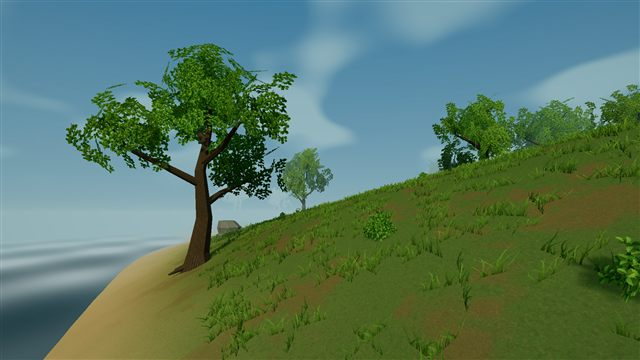
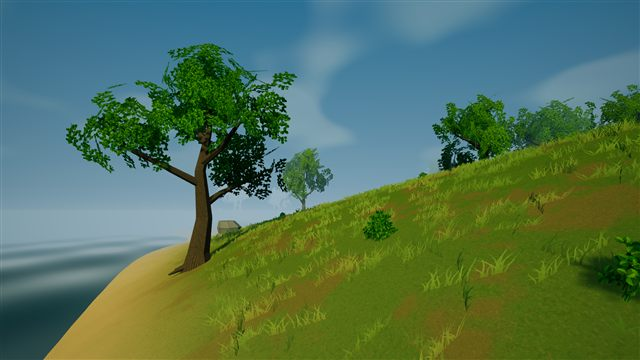
Publish rendering study 05 with HDR and SMAA comparisons

diff --git a/index.html b/index.html
@@ -1,16 +1,16 @@
 <!doctype html>
-<html lang="en"><head><meta charset="utf-8"><meta name="viewport" content="width=device-width, initial-scale=1"><meta name="theme-color" content="#101a15"><meta name="description" content="Ten in-engine forest, coast, and shelter screenshots from the Survival prototype."><title>Survival - Environment Gallery</title><link rel="stylesheet" href="style.css?v=4"></head>
-<body><header class="wrap masthead"><a class="brand" href="index.html">SURVIVAL <span>DEVELOPMENT GALLERY</span></a><span class="edition">ENVIRONMENT STUDY 04</span></header>
-<main class="wrap"><section class="intro"><p class="eyebrow">FOREST / COAST / SHELTER</p><h1>A world in different light.</h1><p class="lead">Ten fresh in-engine views with clearer sunlight and shade, restrained foliage backlighting, and less foreground mist. The same procedural assets show the lighting changes.</p><p class="hint">Choose a view. Tap its image for the full-resolution screenshot. The canopy and shelter pages include views from before the lighting pass. Contact occlusion is off in these default views.</p></section>
-<section class="gallery" aria-label="Environment screenshots"><a class="card" href="clearing.html"><img src="images/clearing-thumb.jpg?v=4" width="640" height="360" alt="The ordinary player camera with branching tree families, finer grass, and irregular rocks." fetchpriority="high"><div class="card-body"><span class="number">DAY / PLAYABLE VIEW</span><h2>Through the clearing</h2><p>The ordinary player camera with branching tree families, finer grass, and irregular rocks.</p><span class="open">Open view <span aria-hidden="true">&#8599;</span></span></div></a>
-<a class="card" href="canopy.html"><img src="images/canopy-thumb.jpg?v=4" width="640" height="360" alt="Rebalanced sunlight, cool shade, and cached canopy skylight on the ground. Earlier captures below show the progression." loading="lazy"><div class="card-body"><span class="number">DAY / CANOPY COMPARISON</span><h2>Under the branches</h2><p>Rebalanced sunlight, cool shade, and cached canopy skylight on the ground. Earlier captures below show the progression.</p><span class="open">Open view <span aria-hidden="true">&#8599;</span></span></div></a>
-<a class="card" href="grass.html"><img src="images/grass-thumb.jpg?v=4" width="640" height="360" alt="Shorter fine grass with occasional taller accents, sparse flowers, and coherent ground patches." loading="lazy"><div class="card-body"><span class="number">DAY / GROUND DETAIL</span><h2>At meadow height</h2><p>Shorter fine grass with occasional taller accents, sparse flowers, and coherent ground patches.</p><span class="open">Open view <span aria-hidden="true">&#8599;</span></span></div></a>
-<a class="card" href="coast.html"><img src="images/coast-thumb.jpg?v=4" width="640" height="360" alt="The shoreline and a simple ripple-lighting water study. Water remains visual only." loading="lazy"><div class="card-body"><span class="number">DAY / COAST</span><h2>Where the meadow meets water</h2><p>The shoreline and a simple ripple-lighting water study. Water remains visual only.</p><span class="open">Open view <span aria-hidden="true">&#8599;</span></span></div></a>
-<a class="card" href="ridge.html"><img src="images/ridge-thumb.jpg?v=4" width="640" height="360" alt="A wide coastal panorama with mixed tree silhouettes and distant mist." loading="lazy"><div class="card-body"><span class="number">DAY / LANDSCAPE</span><h2>Across the forest edge</h2><p>A wide coastal panorama with mixed tree silhouettes and distant mist.</p><span class="open">Open view <span aria-hidden="true">&#8599;</span></span></div></a>
-<a class="card" href="dawn.html"><img src="images/dawn-thumb.jpg?v=4" width="640" height="360" alt="A curated dawn preset: low warm sunlight, cooler ambient light, and heavier mist." loading="lazy"><div class="card-body"><span class="number">DAWN / LIGHTING STUDY</span><h2>Cool morning mist</h2><p>A curated dawn preset: low warm sunlight, cooler ambient light, and heavier mist.</p><span class="open">Open view <span aria-hidden="true">&#8599;</span></span></div></a>
-<a class="card" href="golden.html"><img src="images/golden-thumb.jpg?v=4" width="640" height="360" alt="A warm low-sun preset for checking foliage volume and long shadows." loading="lazy"><div class="card-body"><span class="number">GOLDEN HOUR / LIGHTING STUDY</span><h2>Late light in the meadow</h2><p>A warm low-sun preset for checking foliage volume and long shadows.</p><span class="open">Open view <span aria-hidden="true">&#8599;</span></span></div></a>
-<a class="card" href="overcast.html"><img src="images/overcast-thumb.jpg?v=4" width="640" height="360" alt="A softer cool-light preset that exposes silhouettes and ground detail without strong sunlight." loading="lazy"><div class="card-body"><span class="number">OVERCAST / LIGHTING STUDY</span><h2>A quieter forest path</h2><p>A softer cool-light preset that exposes silhouettes and ground detail without strong sunlight.</p><span class="open">Open view <span aria-hidden="true">&#8599;</span></span></div></a>
-<a class="card" href="shelter.html"><img src="images/shelter-thumb.jpg?v=4" width="640" height="360" alt="A staged fixture built from the existing foundation, floor, wall, doorway, and flat-roof pieces." loading="lazy"><div class="card-body"><span class="number">DAY / CONSTRUCTION STUDY</span><h2>A shelter in the clearing</h2><p>A staged fixture built from the existing foundation, floor, wall, doorway, and flat-roof pieces.</p><span class="open">Open view <span aria-hidden="true">&#8599;</span></span></div></a>
-<a class="card" href="dusk.html"><img src="images/dusk-thumb.jpg?v=4" width="640" height="360" alt="The same prototype pieces at dusk with a capture-only ember and point-light fixture. Campfire gameplay is not implemented." loading="lazy"><div class="card-body"><span class="number">DUSK / LOCAL LIGHT STUDY</span><h2>Warmth beside the shelter</h2><p>The same prototype pieces at dusk with a capture-only ember and point-light fixture. Campfire gameplay is not implemented.</p><span class="open">Open view <span aria-hidden="true">&#8599;</span></span></div></a></section>
+<html lang="en"><head><meta charset="utf-8"><meta name="viewport" content="width=device-width, initial-scale=1"><meta name="theme-color" content="#101a15"><meta name="description" content="Ten in-engine forest, coast, and shelter screenshots from the Survival prototype."><title>Survival - Environment Gallery</title><link rel="stylesheet" href="style.css?v=5"></head>
+<body><header class="wrap masthead"><a class="brand" href="index.html">SURVIVAL <span>DEVELOPMENT GALLERY</span></a><span class="edition">ENVIRONMENT STUDY 05</span></header>
+<main class="wrap"><section class="intro"><p class="eyebrow">FOREST / COAST / SHELTER</p><h1>A world in different light.</h1><p class="lead">Ten in-engine views with spatial anti-aliasing, HDR lighting and preset colour grading, deeper foliage colours, ground-blended grass roots, and a directional sky horizon.</p><p class="hint">Choose a view. Tap its image for the full-resolution screenshot. The canopy and shelter pages retain earlier rendering studies for comparison. Contact occlusion is off in these default views.</p></section>
+<section class="gallery" aria-label="Environment screenshots"><a class="card" href="clearing.html"><img src="images/clearing-thumb.jpg?v=5" width="640" height="360" alt="The ordinary player camera with branching tree families, finer grass, and irregular rocks." fetchpriority="high"><div class="card-body"><span class="number">DAY / PLAYABLE VIEW</span><h2>Through the clearing</h2><p>The ordinary player camera with branching tree families, finer grass, and irregular rocks.</p><span class="open">Open view <span aria-hidden="true">&#8599;</span></span></div></a>
+<a class="card" href="canopy.html"><img src="images/canopy-thumb.jpg?v=5" width="640" height="360" alt="Deeper foliage, warmer backlighting, spatial anti-aliasing, and a shared directional sky/fog horizon. Earlier studies below show the progression." loading="lazy"><div class="card-body"><span class="number">DAY / CANOPY COMPARISON</span><h2>Under the branches</h2><p>Deeper foliage, warmer backlighting, spatial anti-aliasing, and a shared directional sky/fog horizon. Earlier studies below show the progression.</p><span class="open">Open view <span aria-hidden="true">&#8599;</span></span></div></a>
+<a class="card" href="grass.html"><img src="images/grass-thumb.jpg?v=5" width="640" height="360" alt="Shorter fine grass with occasional taller accents, sparse flowers, and coherent ground patches." loading="lazy"><div class="card-body"><span class="number">DAY / GROUND DETAIL</span><h2>At meadow height</h2><p>Shorter fine grass with occasional taller accents, sparse flowers, and coherent ground patches.</p><span class="open">Open view <span aria-hidden="true">&#8599;</span></span></div></a>
+<a class="card" href="coast.html"><img src="images/coast-thumb.jpg?v=5" width="640" height="360" alt="The shoreline and a simple ripple-lighting water study. Water remains visual only." loading="lazy"><div class="card-body"><span class="number">DAY / COAST</span><h2>Where the meadow meets water</h2><p>The shoreline and a simple ripple-lighting water study. Water remains visual only.</p><span class="open">Open view <span aria-hidden="true">&#8599;</span></span></div></a>
+<a class="card" href="ridge.html"><img src="images/ridge-thumb.jpg?v=5" width="640" height="360" alt="A wide coastal panorama with mixed tree silhouettes and distant mist." loading="lazy"><div class="card-body"><span class="number">DAY / LANDSCAPE</span><h2>Across the forest edge</h2><p>A wide coastal panorama with mixed tree silhouettes and distant mist.</p><span class="open">Open view <span aria-hidden="true">&#8599;</span></span></div></a>
+<a class="card" href="dawn.html"><img src="images/dawn-thumb.jpg?v=5" width="640" height="360" alt="A curated dawn preset: low warm sunlight, cooler ambient light, and heavier mist." loading="lazy"><div class="card-body"><span class="number">DAWN / LIGHTING STUDY</span><h2>Cool morning mist</h2><p>A curated dawn preset: low warm sunlight, cooler ambient light, and heavier mist.</p><span class="open">Open view <span aria-hidden="true">&#8599;</span></span></div></a>
+<a class="card" href="golden.html"><img src="images/golden-thumb.jpg?v=5" width="640" height="360" alt="A warm low-sun preset for checking foliage volume and long shadows." loading="lazy"><div class="card-body"><span class="number">GOLDEN HOUR / LIGHTING STUDY</span><h2>Late light in the meadow</h2><p>A warm low-sun preset for checking foliage volume and long shadows.</p><span class="open">Open view <span aria-hidden="true">&#8599;</span></span></div></a>
+<a class="card" href="overcast.html"><img src="images/overcast-thumb.jpg?v=5" width="640" height="360" alt="A softer cool-light preset that exposes silhouettes and ground detail without strong sunlight." loading="lazy"><div class="card-body"><span class="number">OVERCAST / LIGHTING STUDY</span><h2>A quieter forest path</h2><p>A softer cool-light preset that exposes silhouettes and ground detail without strong sunlight.</p><span class="open">Open view <span aria-hidden="true">&#8599;</span></span></div></a>
+<a class="card" href="shelter.html"><img src="images/shelter-thumb.jpg?v=5" width="640" height="360" alt="A staged fixture built from the existing foundation, floor, wall, doorway, and flat-roof pieces." loading="lazy"><div class="card-body"><span class="number">DAY / CONSTRUCTION STUDY</span><h2>A shelter in the clearing</h2><p>A staged fixture built from the existing foundation, floor, wall, doorway, and flat-roof pieces.</p><span class="open">Open view <span aria-hidden="true">&#8599;</span></span></div></a>
+<a class="card" href="dusk.html"><img src="images/dusk-thumb.jpg?v=5" width="640" height="360" alt="The same prototype pieces at dusk with a capture-only ember and point-light fixture. Campfire gameplay is not implemented." loading="lazy"><div class="card-body"><span class="number">DUSK / LOCAL LIGHT STUDY</span><h2>Warmth beside the shelter</h2><p>The same prototype pieces at dusk with a capture-only ember and point-light fixture. Campfire gameplay is not implemented.</p><span class="open">Open view <span aria-hidden="true">&#8599;</span></span></div></a></section>
 <aside class="note"><strong>A work in progress.</strong> Original procedural assets, rendered in the game. Dawn, golden-hour, overcast, and dusk images use curated art presets; they do not demonstrate a day/night or weather cycle. Shelter scenes are staged from existing build pieces, and the dusk fire is a lighting fixture. This is a screenshot gallery, not a playable mobile game.</aside></main>
-<footer class="wrap footer">SURVIVAL <span>Environment study 04 - ten views</span></footer></body></html>
+<footer class="wrap footer">SURVIVAL <span>Environment study 05 - ten views</span></footer></body></html>

diff --git a/canopy.html b/canopy.html
@@ -1,7 +1,7 @@
 <!doctype html>
-<html lang="en"><head><meta charset="utf-8"><meta name="viewport" content="width=device-width, initial-scale=1"><meta name="theme-color" content="#101a15"><title>Under the branches - Survival Gallery</title><link rel="stylesheet" href="style.css?v=4"></head>
-<body><header class="wrap masthead"><a class="brand" href="index.html">SURVIVAL <span>DEVELOPMENT GALLERY</span></a><span class="edition">ENVIRONMENT STUDY 04</span></header>
-<main class="wrap"><section class="view-header"><a class="back" href="index.html">&#8592; All views</a><p class="eyebrow">DAY / CANOPY COMPARISON</p><h1>Under the branches</h1><p>Rebalanced sunlight, cool shade, and cached canopy skylight on the ground. Earlier captures below show the progression.</p></section>
-<figure class="image-frame"><a href="images/canopy-full.png?v=4"><img src="images/canopy.jpg?v=4" width="1280" height="720" alt="Rebalanced sunlight, cool shade, and cached canopy skylight on the ground. Earlier captures below show the progression." fetchpriority="high"></a><figcaption>Captured in Unity at 1920 &#215; 1080. Tap the image for the original PNG. Lighting variants are curated art presets, not a running day/night or weather system.</figcaption></figure><section class="view-header"><h2>Before the lighting pass</h2><p>Study 03: the same camera and procedural assets before the sunlight, ambient shading, and fog changes. Wind can differ between captures.</p></section><figure class="image-frame"><a href="images/study03-canopy-full.png"><img src="images/study03-canopy.jpg" width="1280" height="720" alt="Study 03 before the lighting pass" loading="lazy"></a><figcaption>Study 03. Tap for the original screenshot.</figcaption></figure><section class="view-header"><h2>Forest study 02</h2><p>The same camera before the branch-led tree, rock, and ground-cover changes.</p></section><figure class="image-frame"><a href="images/study02-canopy-full.png"><img src="images/study02-canopy.jpg" width="1280" height="720" alt="Study 02 canopy capture before the branch-led tree family changes" loading="lazy"></a><figcaption>Study 02. Tap for the original screenshot.</figcaption></figure><section class="view-header"><h2>Original procedural study</h2><p>An earlier build using the same camera position, not another current lighting preset.</p></section><figure class="image-frame"><a href="images/before-canopy-full.png"><img src="images/before-canopy.jpg" width="1280" height="720" alt="Earlier canopy study with repeated branch shapes and larger leaf patterns" loading="lazy"></a><figcaption>Original study. Tap for the original screenshot.</figcaption></figure>
+<html lang="en"><head><meta charset="utf-8"><meta name="viewport" content="width=device-width, initial-scale=1"><meta name="theme-color" content="#101a15"><title>Under the branches - Survival Gallery</title><link rel="stylesheet" href="style.css?v=5"></head>
+<body><header class="wrap masthead"><a class="brand" href="index.html">SURVIVAL <span>DEVELOPMENT GALLERY</span></a><span class="edition">ENVIRONMENT STUDY 05</span></header>
+<main class="wrap"><section class="view-header"><a class="back" href="index.html">&#8592; All views</a><p class="eyebrow">DAY / CANOPY COMPARISON</p><h1>Under the branches</h1><p>Deeper foliage, warmer backlighting, spatial anti-aliasing, and a shared directional sky/fog horizon. Earlier studies below show the progression.</p></section>
+<figure class="image-frame"><a href="images/canopy-full.png?v=5"><img src="images/canopy.jpg?v=5" width="1280" height="720" alt="Deeper foliage, warmer backlighting, spatial anti-aliasing, and a shared directional sky/fog horizon. Earlier studies below show the progression." fetchpriority="high"></a><figcaption>Captured in Unity at 1920 &#215; 1080. Tap the image for the original PNG. Lighting variants are curated art presets, not a running day/night or weather system.</figcaption></figure><section class="view-header"><h2>Before this rendering pass</h2><p>Study 04: the same camera before SMAA, HDR capture and grading, foliage colours, grass-root blending, and directional horizon tint. Wind can differ between captures.</p></section><figure class="image-frame"><a href="images/study04-canopy-full.png"><img src="images/study04-canopy.jpg" width="1280" height="720" alt="Study 04 before the rendering recommendations pass" loading="lazy"></a><figcaption>Study 04. Tap for the original screenshot.</figcaption></figure><section class="view-header"><h2>Before the lighting pass</h2><p>Study 03: the same camera and procedural assets before the sunlight, ambient shading, and fog changes. Wind can differ between captures.</p></section><figure class="image-frame"><a href="images/study03-canopy-full.png"><img src="images/study03-canopy.jpg" width="1280" height="720" alt="Study 03 before the lighting pass" loading="lazy"></a><figcaption>Study 03. Tap for the original screenshot.</figcaption></figure><section class="view-header"><h2>Forest study 02</h2><p>The same camera before the branch-led tree, rock, and ground-cover changes.</p></section><figure class="image-frame"><a href="images/study02-canopy-full.png"><img src="images/study02-canopy.jpg" width="1280" height="720" alt="Study 02 canopy capture before the branch-led tree family changes" loading="lazy"></a><figcaption>Study 02. Tap for the original screenshot.</figcaption></figure><section class="view-header"><h2>Original procedural study</h2><p>An earlier build using the same camera position, not another current lighting preset.</p></section><figure class="image-frame"><a href="images/before-canopy-full.png"><img src="images/before-canopy.jpg" width="1280" height="720" alt="Earlier canopy study with repeated branch shapes and larger leaf patterns" loading="lazy"></a><figcaption>Original study. Tap for the original screenshot.</figcaption></figure>
 <nav class="view-nav" aria-label="Screenshot navigation"><a href="clearing.html">&#8592; Through the clearing</a><a class="next" href="grass.html">At meadow height &#8594;</a></nav></main>
 <footer class="wrap footer">SURVIVAL <span>In-engine development captures</span></footer></body></html>

diff --git a/shelter.html b/shelter.html
@@ -1,7 +1,7 @@
 <!doctype html>
-<html lang="en"><head><meta charset="utf-8"><meta name="viewport" content="width=device-width, initial-scale=1"><meta name="theme-color" content="#101a15"><title>A shelter in the clearing - Survival Gallery</title><link rel="stylesheet" href="style.css?v=4"></head>
-<body><header class="wrap masthead"><a class="brand" href="index.html">SURVIVAL <span>DEVELOPMENT GALLERY</span></a><span class="edition">ENVIRONMENT STUDY 04</span></header>
+<html lang="en"><head><meta charset="utf-8"><meta name="viewport" content="width=device-width, initial-scale=1"><meta name="theme-color" content="#101a15"><title>A shelter in the clearing - Survival Gallery</title><link rel="stylesheet" href="style.css?v=5"></head>
+<body><header class="wrap masthead"><a class="brand" href="index.html">SURVIVAL <span>DEVELOPMENT GALLERY</span></a><span class="edition">ENVIRONMENT STUDY 05</span></header>
 <main class="wrap"><section class="view-header"><a class="back" href="index.html">&#8592; All views</a><p class="eyebrow">DAY / CONSTRUCTION STUDY</p><h1>A shelter in the clearing</h1><p>A staged fixture built from the existing foundation, floor, wall, doorway, and flat-roof pieces.</p></section>
-<figure class="image-frame"><a href="images/shelter-full.png?v=4"><img src="images/shelter.jpg?v=4" width="1280" height="720" alt="A staged fixture built from the existing foundation, floor, wall, doorway, and flat-roof pieces." fetchpriority="high"></a><figcaption>Captured in Unity at 1920 &#215; 1080. Tap the image for the original PNG. Lighting variants are curated art presets, not a running day/night or weather system.</figcaption></figure><section class="view-header"><h2>Before the lighting pass</h2><p>Study 03: the same camera and procedural assets before the sunlight, ambient shading, and fog changes. Wind can differ between captures.</p></section><figure class="image-frame"><a href="images/study03-shelter-full.png"><img src="images/study03-shelter.jpg" width="1280" height="720" alt="Study 03 before the lighting pass" loading="lazy"></a><figcaption>Study 03. Tap for the original screenshot.</figcaption></figure>
+<figure class="image-frame"><a href="images/shelter-full.png?v=5"><img src="images/shelter.jpg?v=5" width="1280" height="720" alt="A staged fixture built from the existing foundation, floor, wall, doorway, and flat-roof pieces." fetchpriority="high"></a><figcaption>Captured in Unity at 1920 &#215; 1080. Tap the image for the original PNG. Lighting variants are curated art presets, not a running day/night or weather system.</figcaption></figure><section class="view-header"><h2>Before this rendering pass</h2><p>Study 04: the same camera before SMAA, HDR capture and grading, foliage colours, grass-root blending, and directional horizon tint. Wind can differ between captures.</p></section><figure class="image-frame"><a href="images/study04-shelter-full.png"><img src="images/study04-shelter.jpg" width="1280" height="720" alt="Study 04 before the rendering recommendations pass" loading="lazy"></a><figcaption>Study 04. Tap for the original screenshot.</figcaption></figure><section class="view-header"><h2>Before the lighting pass</h2><p>Study 03: the same camera and procedural assets before the sunlight, ambient shading, and fog changes. Wind can differ between captures.</p></section><figure class="image-frame"><a href="images/study03-shelter-full.png"><img src="images/study03-shelter.jpg" width="1280" height="720" alt="Study 03 before the lighting pass" loading="lazy"></a><figcaption>Study 03. Tap for the original screenshot.</figcaption></figure>
 <nav class="view-nav" aria-label="Screenshot navigation"><a href="overcast.html">&#8592; A quieter forest path</a><a class="next" href="dusk.html">Warmth beside the shelter &#8594;</a></nav></main>
 <footer class="wrap footer">SURVIVAL <span>In-engine development captures</span></footer></body></html>

diff --git a/dusk.html b/dusk.html
@@ -1,7 +1,7 @@
 <!doctype html>
-<html lang="en"><head><meta charset="utf-8"><meta name="viewport" content="width=device-width, initial-scale=1"><meta name="theme-color" content="#101a15"><title>Warmth beside the shelter - Survival Gallery</title><link rel="stylesheet" href="style.css?v=4"></head>
-<body><header class="wrap masthead"><a class="brand" href="index.html">SURVIVAL <span>DEVELOPMENT GALLERY</span></a><span class="edition">ENVIRONMENT STUDY 04</span></header>
+<html lang="en"><head><meta charset="utf-8"><meta name="viewport" content="width=device-width, initial-scale=1"><meta name="theme-color" content="#101a15"><title>Warmth beside the shelter - Survival Gallery</title><link rel="stylesheet" href="style.css?v=5"></head>
+<body><header class="wrap masthead"><a class="brand" href="index.html">SURVIVAL <span>DEVELOPMENT GALLERY</span></a><span class="edition">ENVIRONMENT STUDY 05</span></header>
 <main class="wrap"><section class="view-header"><a class="back" href="index.html">&#8592; All views</a><p class="eyebrow">DUSK / LOCAL LIGHT STUDY</p><h1>Warmth beside the shelter</h1><p>The same prototype pieces at dusk with a capture-only ember and point-light fixture. Campfire gameplay is not implemented.</p></section>
-<figure class="image-frame"><a href="images/dusk-full.png?v=4"><img src="images/dusk.jpg?v=4" width="1280" height="720" alt="The same prototype pieces at dusk with a capture-only ember and point-light fixture. Campfire gameplay is not implemented." fetchpriority="high"></a><figcaption>Captured in Unity at 1920 &#215; 1080. Tap the image for the original PNG. Lighting variants are curated art presets, not a running day/night or weather system.</figcaption></figure>
+<figure class="image-frame"><a href="images/dusk-full.png?v=5"><img src="images/dusk.jpg?v=5" width="1280" height="720" alt="The same prototype pieces at dusk with a capture-only ember and point-light fixture. Campfire gameplay is not implemented." fetchpriority="high"></a><figcaption>Captured in Unity at 1920 &#215; 1080. Tap the image for the original PNG. Lighting variants are curated art presets, not a running day/night or weather system.</figcaption></figure>
 <nav class="view-nav" aria-label="Screenshot navigation"><a href="shelter.html">&#8592; A shelter in the clearing</a><a class="next" href="clearing.html">Through the clearing &#8594;</a></nav></main>
 <footer class="wrap footer">SURVIVAL <span>In-engine development captures</span></footer></body></html>

diff --git a/overcast.html b/overcast.html
@@ -1,7 +1,7 @@
 <!doctype html>
-<html lang="en"><head><meta charset="utf-8"><meta name="viewport" content="width=device-width, initial-scale=1"><meta name="theme-color" content="#101a15"><title>A quieter forest path - Survival Gallery</title><link rel="stylesheet" href="style.css?v=4"></head>
-<body><header class="wrap masthead"><a class="brand" href="index.html">SURVIVAL <span>DEVELOPMENT GALLERY</span></a><span class="edition">ENVIRONMENT STUDY 04</span></header>
+<html lang="en"><head><meta charset="utf-8"><meta name="viewport" content="width=device-width, initial-scale=1"><meta name="theme-color" content="#101a15"><title>A quieter forest path - Survival Gallery</title><link rel="stylesheet" href="style.css?v=5"></head>
+<body><header class="wrap masthead"><a class="brand" href="index.html">SURVIVAL <span>DEVELOPMENT GALLERY</span></a><span class="edition">ENVIRONMENT STUDY 05</span></header>
 <main class="wrap"><section class="view-header"><a class="back" href="index.html">&#8592; All views</a><p class="eyebrow">OVERCAST / LIGHTING STUDY</p><h1>A quieter forest path</h1><p>A softer cool-light preset that exposes silhouettes and ground detail without strong sunlight.</p></section>
-<figure class="image-frame"><a href="images/overcast-full.png?v=4"><img src="images/overcast.jpg?v=4" width="1280" height="720" alt="A softer cool-light preset that exposes silhouettes and ground detail without strong sunlight." fetchpriority="high"></a><figcaption>Captured in Unity at 1920 &#215; 1080. Tap the image for the original PNG. Lighting variants are curated art presets, not a running day/night or weather system.</figcaption></figure>
+<figure class="image-frame"><a href="images/overcast-full.png?v=5"><img src="images/overcast.jpg?v=5" width="1280" height="720" alt="A softer cool-light preset that exposes silhouettes and ground detail without strong sunlight." fetchpriority="high"></a><figcaption>Captured in Unity at 1920 &#215; 1080. Tap the image for the original PNG. Lighting variants are curated art presets, not a running day/night or weather system.</figcaption></figure>
 <nav class="view-nav" aria-label="Screenshot navigation"><a href="golden.html">&#8592; Late light in the meadow</a><a class="next" href="shelter.html">A shelter in the clearing &#8594;</a></nav></main>
 <footer class="wrap footer">SURVIVAL <span>In-engine development captures</span></footer></body></html>

diff --git a/clearing.html b/clearing.html
@@ -1,7 +1,7 @@
 <!doctype html>
-<html lang="en"><head><meta charset="utf-8"><meta name="viewport" content="width=device-width, initial-scale=1"><meta name="theme-color" content="#101a15"><title>Through the clearing - Survival Gallery</title><link rel="stylesheet" href="style.css?v=4"></head>
-<body><header class="wrap masthead"><a class="brand" href="index.html">SURVIVAL <span>DEVELOPMENT GALLERY</span></a><span class="edition">ENVIRONMENT STUDY 04</span></header>
+<html lang="en"><head><meta charset="utf-8"><meta name="viewport" content="width=device-width, initial-scale=1"><meta name="theme-color" content="#101a15"><title>Through the clearing - Survival Gallery</title><link rel="stylesheet" href="style.css?v=5"></head>
+<body><header class="wrap masthead"><a class="brand" href="index.html">SURVIVAL <span>DEVELOPMENT GALLERY</span></a><span class="edition">ENVIRONMENT STUDY 05</span></header>
 <main class="wrap"><section class="view-header"><a class="back" href="index.html">&#8592; All views</a><p class="eyebrow">DAY / PLAYABLE VIEW</p><h1>Through the clearing</h1><p>The ordinary player camera with branching tree families, finer grass, and irregular rocks.</p></section>
-<figure class="image-frame"><a href="images/clearing-full.png?v=4"><img src="images/clearing.jpg?v=4" width="1280" height="720" alt="The ordinary player camera with branching tree families, finer grass, and irregular rocks." fetchpriority="high"></a><figcaption>Captured in Unity at 1920 &#215; 1080. Tap the image for the original PNG. Lighting variants are curated art presets, not a running day/night or weather system.</figcaption></figure>
+<figure class="image-frame"><a href="images/clearing-full.png?v=5"><img src="images/clearing.jpg?v=5" width="1280" height="720" alt="The ordinary player camera with branching tree families, finer grass, and irregular rocks." fetchpriority="high"></a><figcaption>Captured in Unity at 1920 &#215; 1080. Tap the image for the original PNG. Lighting variants are curated art presets, not a running day/night or weather system.</figcaption></figure>
 <nav class="view-nav" aria-label="Screenshot navigation"><a href="dusk.html">&#8592; Warmth beside the shelter</a><a class="next" href="canopy.html">Under the branches &#8594;</a></nav></main>
 <footer class="wrap footer">SURVIVAL <span>In-engine development captures</span></footer></body></html>

diff --git a/grass.html b/grass.html
@@ -1,7 +1,7 @@
 <!doctype html>
-<html lang="en"><head><meta charset="utf-8"><meta name="viewport" content="width=device-width, initial-scale=1"><meta name="theme-color" content="#101a15"><title>At meadow height - Survival Gallery</title><link rel="stylesheet" href="style.css?v=4"></head>
-<body><header class="wrap masthead"><a class="brand" href="index.html">SURVIVAL <span>DEVELOPMENT GALLERY</span></a><span class="edition">ENVIRONMENT STUDY 04</span></header>
+<html lang="en"><head><meta charset="utf-8"><meta name="viewport" content="width=device-width, initial-scale=1"><meta name="theme-color" content="#101a15"><title>At meadow height - Survival Gallery</title><link rel="stylesheet" href="style.css?v=5"></head>
+<body><header class="wrap masthead"><a class="brand" href="index.html">SURVIVAL <span>DEVELOPMENT GALLERY</span></a><span class="edition">ENVIRONMENT STUDY 05</span></header>
 <main class="wrap"><section class="view-header"><a class="back" href="index.html">&#8592; All views</a><p class="eyebrow">DAY / GROUND DETAIL</p><h1>At meadow height</h1><p>Shorter fine grass with occasional taller accents, sparse flowers, and coherent ground patches.</p></section>
-<figure class="image-frame"><a href="images/grass-full.png?v=4"><img src="images/grass.jpg?v=4" width="1280" height="720" alt="Shorter fine grass with occasional taller accents, sparse flowers, and coherent ground patches." fetchpriority="high"></a><figcaption>Captured in Unity at 1920 &#215; 1080. Tap the image for the original PNG. Lighting variants are curated art presets, not a running day/night or weather system.</figcaption></figure>
+<figure class="image-frame"><a href="images/grass-full.png?v=5"><img src="images/grass.jpg?v=5" width="1280" height="720" alt="Shorter fine grass with occasional taller accents, sparse flowers, and coherent ground patches." fetchpriority="high"></a><figcaption>Captured in Unity at 1920 &#215; 1080. Tap the image for the original PNG. Lighting variants are curated art presets, not a running day/night or weather system.</figcaption></figure>
 <nav class="view-nav" aria-label="Screenshot navigation"><a href="canopy.html">&#8592; Under the branches</a><a class="next" href="coast.html">Where the meadow meets water &#8594;</a></nav></main>
 <footer class="wrap footer">SURVIVAL <span>In-engine development captures</span></footer></body></html>

diff --git a/coast.html b/coast.html
@@ -1,7 +1,7 @@
 <!doctype html>
-<html lang="en"><head><meta charset="utf-8"><meta name="viewport" content="width=device-width, initial-scale=1"><meta name="theme-color" content="#101a15"><title>Where the meadow meets water - Survival Gallery</title><link rel="stylesheet" href="style.css?v=4"></head>
-<body><header class="wrap masthead"><a class="brand" href="index.html">SURVIVAL <span>DEVELOPMENT GALLERY</span></a><span class="edition">ENVIRONMENT STUDY 04</span></header>
+<html lang="en"><head><meta charset="utf-8"><meta name="viewport" content="width=device-width, initial-scale=1"><meta name="theme-color" content="#101a15"><title>Where the meadow meets water - Survival Gallery</title><link rel="stylesheet" href="style.css?v=5"></head>
+<body><header class="wrap masthead"><a class="brand" href="index.html">SURVIVAL <span>DEVELOPMENT GALLERY</span></a><span class="edition">ENVIRONMENT STUDY 05</span></header>
 <main class="wrap"><section class="view-header"><a class="back" href="index.html">&#8592; All views</a><p class="eyebrow">DAY / COAST</p><h1>Where the meadow meets water</h1><p>The shoreline and a simple ripple-lighting water study. Water remains visual only.</p></section>
-<figure class="image-frame"><a href="images/coast-full.png?v=4"><img src="images/coast.jpg?v=4" width="1280" height="720" alt="The shoreline and a simple ripple-lighting water study. Water remains visual only." fetchpriority="high"></a><figcaption>Captured in Unity at 1920 &#215; 1080. Tap the image for the original PNG. Lighting variants are curated art presets, not a running day/night or weather system.</figcaption></figure>
+<figure class="image-frame"><a href="images/coast-full.png?v=5"><img src="images/coast.jpg?v=5" width="1280" height="720" alt="The shoreline and a simple ripple-lighting water study. Water remains visual only." fetchpriority="high"></a><figcaption>Captured in Unity at 1920 &#215; 1080. Tap the image for the original PNG. Lighting variants are curated art presets, not a running day/night or weather system.</figcaption></figure>
 <nav class="view-nav" aria-label="Screenshot navigation"><a href="grass.html">&#8592; At meadow height</a><a class="next" href="ridge.html">Across the forest edge &#8594;</a></nav></main>
 <footer class="wrap footer">SURVIVAL <span>In-engine development captures</span></footer></body></html>

diff --git a/dawn.html b/dawn.html
@@ -1,7 +1,7 @@
 <!doctype html>
-<html lang="en"><head><meta charset="utf-8"><meta name="viewport" content="width=device-width, initial-scale=1"><meta name="theme-color" content="#101a15"><title>Cool morning mist - Survival Gallery</title><link rel="stylesheet" href="style.css?v=4"></head>
-<body><header class="wrap masthead"><a class="brand" href="index.html">SURVIVAL <span>DEVELOPMENT GALLERY</span></a><span class="edition">ENVIRONMENT STUDY 04</span></header>
+<html lang="en"><head><meta charset="utf-8"><meta name="viewport" content="width=device-width, initial-scale=1"><meta name="theme-color" content="#101a15"><title>Cool morning mist - Survival Gallery</title><link rel="stylesheet" href="style.css?v=5"></head>
+<body><header class="wrap masthead"><a class="brand" href="index.html">SURVIVAL <span>DEVELOPMENT GALLERY</span></a><span class="edition">ENVIRONMENT STUDY 05</span></header>
 <main class="wrap"><section class="view-header"><a class="back" href="index.html">&#8592; All views</a><p class="eyebrow">DAWN / LIGHTING STUDY</p><h1>Cool morning mist</h1><p>A curated dawn preset: low warm sunlight, cooler ambient light, and heavier mist.</p></section>
-<figure class="image-frame"><a href="images/dawn-full.png?v=4"><img src="images/dawn.jpg?v=4" width="1280" height="720" alt="A curated dawn preset: low warm sunlight, cooler ambient light, and heavier mist." fetchpriority="high"></a><figcaption>Captured in Unity at 1920 &#215; 1080. Tap the image for the original PNG. Lighting variants are curated art presets, not a running day/night or weather system.</figcaption></figure>
+<figure class="image-frame"><a href="images/dawn-full.png?v=5"><img src="images/dawn.jpg?v=5" width="1280" height="720" alt="A curated dawn preset: low warm sunlight, cooler ambient light, and heavier mist." fetchpriority="high"></a><figcaption>Captured in Unity at 1920 &#215; 1080. Tap the image for the original PNG. Lighting variants are curated art presets, not a running day/night or weather system.</figcaption></figure>
 <nav class="view-nav" aria-label="Screenshot navigation"><a href="ridge.html">&#8592; Across the forest edge</a><a class="next" href="golden.html">Late light in the meadow &#8594;</a></nav></main>
 <footer class="wrap footer">SURVIVAL <span>In-engine development captures</span></footer></body></html>

diff --git a/golden.html b/golden.html
@@ -1,7 +1,7 @@
 <!doctype html>
-<html lang="en"><head><meta charset="utf-8"><meta name="viewport" content="width=device-width, initial-scale=1"><meta name="theme-color" content="#101a15"><title>Late light in the meadow - Survival Gallery</title><link rel="stylesheet" href="style.css?v=4"></head>
-<body><header class="wrap masthead"><a class="brand" href="index.html">SURVIVAL <span>DEVELOPMENT GALLERY</span></a><span class="edition">ENVIRONMENT STUDY 04</span></header>
+<html lang="en"><head><meta charset="utf-8"><meta name="viewport" content="width=device-width, initial-scale=1"><meta name="theme-color" content="#101a15"><title>Late light in the meadow - Survival Gallery</title><link rel="stylesheet" href="style.css?v=5"></head>
+<body><header class="wrap masthead"><a class="brand" href="index.html">SURVIVAL <span>DEVELOPMENT GALLERY</span></a><span class="edition">ENVIRONMENT STUDY 05</span></header>
 <main class="wrap"><section class="view-header"><a class="back" href="index.html">&#8592; All views</a><p class="eyebrow">GOLDEN HOUR / LIGHTING STUDY</p><h1>Late light in the meadow</h1><p>A warm low-sun preset for checking foliage volume and long shadows.</p></section>
-<figure class="image-frame"><a href="images/golden-full.png?v=4"><img src="images/golden.jpg?v=4" width="1280" height="720" alt="A warm low-sun preset for checking foliage volume and long shadows." fetchpriority="high"></a><figcaption>Captured in Unity at 1920 &#215; 1080. Tap the image for the original PNG. Lighting variants are curated art presets, not a running day/night or weather system.</figcaption></figure>
+<figure class="image-frame"><a href="images/golden-full.png?v=5"><img src="images/golden.jpg?v=5" width="1280" height="720" alt="A warm low-sun preset for checking foliage volume and long shadows." fetchpriority="high"></a><figcaption>Captured in Unity at 1920 &#215; 1080. Tap the image for the original PNG. Lighting variants are curated art presets, not a running day/night or weather system.</figcaption></figure>
 <nav class="view-nav" aria-label="Screenshot navigation"><a href="dawn.html">&#8592; Cool morning mist</a><a class="next" href="overcast.html">A quieter forest path &#8594;</a></nav></main>
 <footer class="wrap footer">SURVIVAL <span>In-engine development captures</span></footer></body></html>

diff --git a/ridge.html b/ridge.html
@@ -1,7 +1,7 @@
 <!doctype html>
-<html lang="en"><head><meta charset="utf-8"><meta name="viewport" content="width=device-width, initial-scale=1"><meta name="theme-color" content="#101a15"><title>Across the forest edge - Survival Gallery</title><link rel="stylesheet" href="style.css?v=4"></head>
-<body><header class="wrap masthead"><a class="brand" href="index.html">SURVIVAL <span>DEVELOPMENT GALLERY</span></a><span class="edition">ENVIRONMENT STUDY 04</span></header>
+<html lang="en"><head><meta charset="utf-8"><meta name="viewport" content="width=device-width, initial-scale=1"><meta name="theme-color" content="#101a15"><title>Across the forest edge - Survival Gallery</title><link rel="stylesheet" href="style.css?v=5"></head>
+<body><header class="wrap masthead"><a class="brand" href="index.html">SURVIVAL <span>DEVELOPMENT GALLERY</span></a><span class="edition">ENVIRONMENT STUDY 05</span></header>
 <main class="wrap"><section class="view-header"><a class="back" href="index.html">&#8592; All views</a><p class="eyebrow">DAY / LANDSCAPE</p><h1>Across the forest edge</h1><p>A wide coastal panorama with mixed tree silhouettes and distant mist.</p></section>
-<figure class="image-frame"><a href="images/ridge-full.png?v=4"><img src="images/ridge.jpg?v=4" width="1280" height="720" alt="A wide coastal panorama with mixed tree silhouettes and distant mist." fetchpriority="high"></a><figcaption>Captured in Unity at 1920 &#215; 1080. Tap the image for the original PNG. Lighting variants are curated art presets, not a running day/night or weather system.</figcaption></figure>
+<figure class="image-frame"><a href="images/ridge-full.png?v=5"><img src="images/ridge.jpg?v=5" width="1280" height="720" alt="A wide coastal panorama with mixed tree silhouettes and distant mist." fetchpriority="high"></a><figcaption>Captured in Unity at 1920 &#215; 1080. Tap the image for the original PNG. Lighting variants are curated art presets, not a running day/night or weather system.</figcaption></figure>
 <nav class="view-nav" aria-label="Screenshot navigation"><a href="coast.html">&#8592; Where the meadow meets water</a><a class="next" href="dawn.html">Cool morning mist &#8594;</a></nav></main>
 <footer class="wrap footer">SURVIVAL <span>In-engine development captures</span></footer></body></html>
